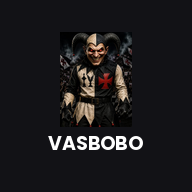
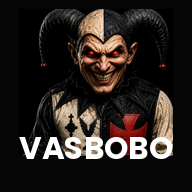
[LOCAL] Ícone com nova arte (texto maior, personagem em destaque); cabeçalho de verdade sincronizado (removido CSS morto duplicado que causava inconsistência); Jogadores só admin; bordas mais escuras; ranking da rodada com link maior pro jogo + call-to-action pra votar; corrige jogo duplicado em des

diff --git a/index.html b/index.html
@@ -169,7 +169,7 @@ console.log('Firebase conectado ao Vasbobo ✓');
   .data-grande{font-family:'Anton',sans-serif;font-size:clamp(1.05rem,3.2vw,1.5rem);letter-spacing:.04em;text-transform:uppercase;color:var(--branco);margin-top:6px}
   .cronometro{font-family:'Anton',sans-serif;font-size:clamp(1.2rem,4vw,1.8rem);letter-spacing:.06em;color:var(--ouro);margin-top:4px}
   .cronometro small{display:block;font-family:'Inter';font-size:.62rem;letter-spacing:.18em;color:var(--cinza)}
-  .rodada-box{background:rgba(255,255,255,.65);border:1px solid rgba(23,23,27,.18);border-radius:12px;padding:12px 14px}
+  .rodada-box{background:rgba(255,255,255,.65);border:1px solid rgba(23,23,27,.32);border-radius:12px;padding:12px 14px}
   .rodada-box h3{font-family:'Inter',sans-serif;font-weight:800;font-size:.78rem;letter-spacing:.1em;text-transform:uppercase;margin-bottom:8px;display:flex;justify-content:space-between;gap:8px;align-items:center;text-shadow:none}
   .rodada-box h3 span.vivo{color:var(--verde);font-size:.6rem;letter-spacing:.16em}
   .mini-linha{display:flex;justify-content:space-between;gap:8px;font-size:.82rem;padding:5px 0;border-bottom:1px solid rgba(150,148,140,.4)}
@@ -626,7 +626,7 @@ console.log('Firebase conectado ao Vasbobo ✓');
     <button class="tab oculto" id="tabPartidas" onclick="mudarAba('partidas')">✠ Jogos/Calendário CRVG</button>
     <a href="/futebol.html" class="tab" style="text-decoration:none">🎯 O Que Mais Entende</a>
     <a href="/ogrupo.html" class="tab" style="text-decoration:none">🍻 O Grupo</a>
-    <button class="tab" id="tabJogadores" onclick="mudarAba('jogadores')">🗣 Jogadores</button>
+    <button class="tab oculto" id="tabJogadores" onclick="mudarAba('jogadores')">🗣 Jogadores</button>
     <button class="tab oculto" id="tabElenco" onclick="mudarAba('elenco')">Elenco</button>
     <button class="tab oculto" id="tabAdmin" onclick="mudarAba('admin')">Configurações</button>
   </nav>
@@ -1046,8 +1046,22 @@ function mediaJogadorNoJogo(j,pid){
   return n?{media:s/n,n}:null;
 }
 /* Reizinho e Ribamar de um jogo encerrado */
+/* pontuação só "fecha" de verdade (coroa/ranking final) quando todo mundo que palpitou já votou
+   nos jogadores, ou depois de 12h do resultado — o que vier primeiro. Antes disso os pontos
+   aparecem como provisórios, porque o MVP da galera pode mudar até lá. */
+function pontuacaoLiberada(j){
+  if(!j.resultado)return false;
+  const palpitantes=Object.keys(j.palpites||{});
+  if(!palpitantes.length)return true;
+  const votantes=new Set(Object.keys(j.avaliacoes||{}).filter(u=>Object.keys(j.avaliacoes[u]||{}).length));
+  const todosVotaram=palpitantes.every(u=>votantes.has(u));
+  if(todosVotaram)return true;
+  const desde=j.resultadoEm||0;
+  return desde?(Date.now()-desde>12*3600000):true;
+}
 function premiacaoJogo(j){
   if(!j.resultado)return null;
+  if(!pontuacaoLiberada(j))return null;
   const chaveJ=fqChaveJogo(j);
   const linhas=Object.entries(j.palpites).map(([u,p])=>({
     u,
@@ -1834,7 +1848,7 @@ async function sincronizarJogos(){
       if(!x.historicoAuto)x.historicoAuto=[];
       x.historicoAuto.push(registro);
       if(r.encerrado){
-        x.resultado={v:gv,a:ga};
+        x.resultado={v:gv,a:ga};x.resultadoEm=Date.now();
         x.goleadores=mapearGoleadores(r.goleadores_vasco);
         x.fonteAuto=registro;
         x.parcial=null;
@@ -1923,6 +1937,7 @@ function entrarNoApp(){
   document.getElementById('whoAdm').classList.toggle('oculto',!adm);
   document.getElementById('tabPartidas').classList.remove('oculto');
   document.getElementById('tabElenco').classList.toggle('oculto',!adm);
+  document.getElementById('tabJogadores').classList.toggle('oculto',!adm);
   document.getElementById('tabAdmin').classList.toggle('oculto',!adm);
   aba='jogos';jogoAberto=null;
   render();
@@ -1985,6 +2000,13 @@ function render(){
 
 /* =================== DESTAQUE E LISTA =================== */
 /* destaque: jogo ao vivo > próximo jogo sem resultado > último da lista */
+function abrirJogoNaAvaliacao(id){
+  abrirJogo(id);
+  setTimeout(()=>{
+    const el=document.querySelector('.aval-bloco');
+    if(el)el.scrollIntoView({behavior:'smooth',block:'start'});
+  },150);
+}
 function jogoDestaque(){
   const lista=jogosOrdenados();
   const agora=new Date();
@@ -2049,7 +2071,14 @@ function htmlRodadaBox(){
   if(usarRodada){
     const aoVivo=statusJogo(rj)==='andamento';
     const tabela=tabelaRodada(rj);
-    let html='<div class="rodada-box" style="cursor:pointer" onclick="abrirJogo(\''+rid+'\')"><h3><span>Ranking da Rodada · '+nomeJogo(rj)+' '+(placarTexto(rj,true)||'')+'</span>'+(aoVivo?'<span class="vivo">● AO VIVO</span>':'')+'</h3><div style="text-align:right;margin:-4px 0 8px">'+tooltipPontuacao()+'</div>';
+    let html='<div class="rodada-box"><h3 style="margin-bottom:2px"><span>Ranking da Rodada</span>'+(aoVivo?'<span class="vivo">● AO VIVO</span>':'')+'</h3>'+
+      '<div onclick="abrirJogo(\''+rid+'\')" style="cursor:pointer;font-size:1.08rem;font-weight:800;color:var(--vermelho);text-decoration:underline;text-underline-offset:3px;margin-bottom:8px;display:flex;align-items:center;gap:6px;flex-wrap:wrap">'+nomeJogo(rj)+' '+(placarTexto(rj,true)||'')+' <span style="font-size:.75em">→</span></div>'+
+      '<div style="text-align:right;margin:-4px 0 8px">'+tooltipPontuacao()+'</div>';
+    if(rj.resultado&&!(rj.avaliacoes&&rj.avaliacoes[eu]&&Object.keys(rj.avaliacoes[eu]).length)){
+      html+='<button class="jogo-item" style="background:rgba(192,18,27,.1);border-color:var(--vermelho);margin-bottom:10px" onclick="abrirJogoNaAvaliacao(\''+rid+'\')">'+
+        '<span><span class="jogo-nome" style="color:var(--vermelho)">🗳 Você ainda não votou nos jogadores!</span>'+
+        '<div class="meta">Toque aqui pra avaliar e ajudar a definir o MVP da rodada</div></span></button>';
+    }
     if(!tabela.length){
       html+='<p class="nota-rodape" style="margin:0">Ninguém palpitou neste jogo. Rodada sem rei nem bobo.</p>';
     }else{
@@ -2068,6 +2097,9 @@ function htmlRodadaBox(){
           '<div class="premio-nome">'+prem.ribas.map(esc).join(' & ')+'</div>'+
           '<div class="premio-sub">'+prem.min+' pt'+(prem.min===1?'':'s')+' — errou até o hino. Agora a roleta do castigo te espera.</div>':'')+'</div>';
       }else if(tabela.length){
+        if(rj.resultado&&!pontuacaoLiberada(rj)){
+          html+='<p class="nota-rodape" style="margin-top:8px">🕐 <b>Pontuação provisória</b> — o MVP ainda pode mudar. A coroa fecha quando todo mundo que palpitou também votar nos jogadores, ou em até 12h depois do resultado.</p>';
+        }
         const lider=tabela[0], ultimo=tabela[tabela.length-1];
         const empatados=lider.pts===ultimo.pts;
         html+='<div class="chips-coroa" style="margin-top:10px"><span class="chip-coroa">'+esc(cap(lider.u))+' '+ICON_REI+'</span>'+
@@ -2138,11 +2170,13 @@ function renderListaJogos(){
       '</div>'+htmlRodadaBox()+htmlCastigoRodadaBox()+'</div></div>';
   }
 
+  const destId=dest?dest[0]:null;
   const encerradosIds=lista.filter(([i,j])=>j.resultado).map(([i])=>i);
   let arquivados=0;
   let mesAtual='';
   lista.forEach(([id,j])=>{
     if(j.resultado){arquivados++;return;}
+    if(id===destId)return;
     const mes=nomeMes(j.data);
     if(mes!==mesAtual){mesAtual=mes;html+='<div class="mes-sep">'+mes+'</div>';}
     const s=statusJogo(j);
@@ -2173,13 +2207,13 @@ function renderDetalhe(){
   const pe=casa?'Vasco':esc(j.adversario), pd=casa?esc(j.adversario):'Vasco';
   const ne=r?(casa?r.v:r.a):'–', nd=r?(casa?r.a:r.v):'–';
 
-  let html='<button class="btn fantasma" onclick="voltarLista()" style="margin-bottom:14px">← Voltar aos jogos</button>'+
+  let html='<button class="btn" onclick="voltarLista()" style="margin-bottom:14px;display:flex;align-items:center;gap:8px;width:auto">← Voltar à Tela Principal</button>'+
   '<div class="card"><div style="display:flex;justify-content:space-between;gap:10px;flex-wrap:wrap;align-items:center"><div>'+
   '<div class="meta">'+fmtData(j)+' '+badgeTransmissao(j,true)+' · '+esc(j.competicao)+(j.fase?' ('+esc(j.fase)+')':'')+' · '+(casa?'São Januário':'Fora de casa')+'</div>'+
   '<div class="placar-grande" style="margin-top:8px"><span>'+pe+'</span><span class="num">'+ne+'</span><span class="x">×</span><span class="num">'+nd+'</span><span>'+pd+'</span>'+(j.parcial&&!j.resultado?'<span class="selo s-andamento">parcial ao vivo</span>':'')+'</div></div>'+
   '<span class="selo '+cls+'">'+txt+'</span></div>';
   if(j.resultado&&(j.goleadores||[]).length)html+='<p class="nota-rodape" style="margin-top:10px">⚽ Gols do Vasco: <b>'+j.goleadores.map(g=>esc(nomeJogador(g))).join(', ')+'</b></p>';
-  if(j.fonteAuto)html+='<div class="auto-info">⚙ Resultado registrado automaticamente em '+new Date(j.fonteAuto.quando).toLocaleString('pt-BR',{day:'2-digit',month:'2-digit',hour:'2-digit',minute:'2-digit'})+' via busca na web (fonte: '+esc(j.fonteAuto.fonte)+'). O admin pode corrigir na área abaixo, se precisar.</div>';
+  if(j.fonteAuto&&souAdmin())html+='<div class="auto-info">⚙ Resultado registrado automaticamente em '+new Date(j.fonteAuto.quando).toLocaleString('pt-BR',{day:'2-digit',month:'2-digit',hour:'2-digit',minute:'2-digit'})+' via busca na web (fonte: '+esc(j.fonteAuto.fonte)+'). <span class="adm">admin</span></div>';
   if(j.emCampoInfo)html+='<div class="auto-info">📋 Lista de quem entrou em campo registrada em '+new Date(j.emCampoInfo.quando).toLocaleString('pt-BR',{day:'2-digit',month:'2-digit',hour:'2-digit',minute:'2-digit'})+' ('+esc(j.emCampoInfo.fonte)+').</div>';
   if(!j.fonteAuto&&j.parcial)html+='<div class="auto-info">⚙ Placar parcial obtido automaticamente às '+new Date(j.parcial.quando).toLocaleTimeString('pt-BR',{hour:'2-digit',minute:'2-digit'})+' (fonte: '+esc(j.parcial.fonte)+'), atualizando a cada poucos minutos.</div>';
   html+=renderMvpLinha(j);
@@ -2219,7 +2253,7 @@ function selectJogadores(idSel,valorAtual,incluirSemGol){
 function renderPalpiteCard(j,s){
   const meu=j.palpites[eu];
   const aberto=podePalpitar(j);
-  let html='<div class="card"><h2>Palpites</h2>';
+  let html='<div class="card"><h2>Palpites Vasbobo</h2>';
   if(aberto){
     html+='<div class="palpite-form"><span class="display" style="font-size:1rem">Vasco</span>'+
       '<input type="number" min="0" max="20" id="ppV" value="'+(meu?meu.v:'')+'" aria-label="Gols do Vasco">'+
@@ -2233,33 +2267,37 @@ function renderPalpiteCard(j,s){
       '<p class="nota-rodape" style="display:flex;align-items:center;gap:8px;flex-wrap:wrap">Palpites fecham '+FECHA_PALPITE_MIN+' minutos antes da bola rolar. '+tooltipPontuacao()+'</p>';
   }else if(meu){
     html+='<p style="font-size:.92rem">Seu palpite: <b class="display">Vasco '+meu.v+' × '+meu.a+' '+esc(j.adversario)+'</b>'+(meu.mvp?' · MVP: <b>'+esc(nomeJogador(meu.mvp))+'</b>':'')+(meu.gol?' · Gol de: <b>'+esc(nomeJogador(meu.gol))+'</b>':'')+'</p>';
-  }else{
-    html+='<p class="nota-rodape" style="margin-top:0">Os palpites deste jogo já fecharam ('+FECHA_PALPITE_MIN+' min antes da bola rolar) e você ficou de fora. Na próxima!</p>';
   }
 
   const nomes=Object.keys(j.palpites);
   if(nomes.length){
-    html+='<div style="margin-top:14px">'+nomes.sort().map(n=>{
-      const p=j.palpites[n];
-      const pts=pontosPalpite(p,j,true);
-      let ptsHtml='';
-      if(pts&&(j.resultado||j.parcial)){
-        const cls=pts.exato?'p5':pts.acertouResultado?'p2':'p0';
-        ptsHtml='<span class="pontos '+cls+'">'+pts.total+' pt'+(pts.total===1?'':'s')+(pts.parcial?' *':'')+'</span>';
-        const bs=descricaoPontosPalpite(pts);
-        if(bs.length)ptsHtml+=' <span class="bonus">'+bs.join(' · ')+'</span>';
-      }
-      const escondido=aberto&&n!==eu;
-      return '<div class="linha-tabela"><span class="rank-nome">'+esc(n)+(n===eu?' (você)':'')+'</span>'+
-        '<span style="font-family:\'Anton\'">'+(escondido?'🙈 palpite oculto até fechar':'Vasco '+p.v+' × '+p.a+' '+esc(j.adversario))+'</span>'+
-        '<span>'+(escondido?'':(p.mvp||p.gol?'<span class="nota-rodape" style="margin:0">MVP: '+(p.mvp?esc(nomeJogador(p.mvp)):'—')+' · Gol: '+(p.gol?esc(nomeJogador(p.gol)):'—')+'</span> ':''))+ptsHtml+'</span></div>';
-    }).join('')+'</div>';
+    html+='<button class="btn fantasma" style="width:100%;margin-top:14px" onclick="togglePalpitesTodos()">'+
+      (mostrarTodosPalpites?'▲ Esconder palpites de todos':'Ver palpites de todos ▾')+'</button>';
+    if(mostrarTodosPalpites){
+      html+='<div style="margin-top:10px">'+nomes.sort().map(n=>{
+        const p=j.palpites[n];
+        const pts=pontosPalpite(p,j,true);
+        let ptsHtml='';
+        if(pts&&(j.resultado||j.parcial)){
+          const cls=pts.exato?'p5':pts.acertouResultado?'p2':'p0';
+          ptsHtml='<span class="pontos '+cls+'">'+pts.total+' pt'+(pts.total===1?'':'s')+(pts.parcial?' *':'')+'</span>';
+          const bs=descricaoPontosPalpite(pts);
+          if(bs.length)ptsHtml+=' <span class="bonus">'+bs.join(' · ')+'</span>';
+        }
+        const escondido=aberto&&n!==eu;
+        return '<div class="linha-tabela"><span class="rank-nome">'+esc(n)+(n===eu?' (você)':'')+'</span>'+
+          '<span style="font-family:\'Anton\'">'+(escondido?'🙈 palpite oculto até fechar':'Vasco '+p.v+' × '+p.a+' '+esc(j.adversario))+'</span>'+
+          '<span>'+(escondido?'':(p.mvp||p.gol?'<span class="nota-rodape" style="margin:0">MVP: '+(p.mvp?esc(nomeJogador(p.mvp)):'—')+' · Gol: '+(p.gol?esc(nomeJogador(p.gol)):'—')+'</span> ':''))+ptsHtml+'</span></div>';
+      }).join('')+'</div>';
+    }
   }else{
     html+='<p class="nota-rodape">Ninguém palpitou ainda. Chega primeiro!</p>';
   }
   html+='</div>';
   return html;
 }
+let mostrarTodosPalpites=false;
+function togglePalpitesTodos(){ mostrarTodosPalpites=!mostrarTodosPalpites; render(); }
 
 async function enviarPalpite(){
   const v=document.getElementById('ppV').value,a=document.getElementById('ppA').value;
@@ -2450,6 +2488,9 @@ function renderAdminJogo(j,s){
   html+='<details style="margin-top:14px"><summary>Quem entrou em campo ('+marcados.length+' registrados) — libera as notas</summary>'+
     '<p class="nota-rodape">A lista é buscada automaticamente após o jogo. Use aqui para forçar ou corrigir.</p>'+
     '<div class="grid g3" style="margin-top:8px">'+chkCampo+'</div>'+
+    '<div style="display:flex;gap:8px;margin-top:12px;flex-wrap:wrap;align-items:flex-end">'+
+    '<div style="flex:1;min-width:140px"><label for="npRapidoNome">Jogador não está na lista?</label><input id="npRapidoNome" placeholder="Nome do jogador"></div>'+
+    '<button class="btn fantasma" onclick="addJogadorRapido()">+ Adicionar à lista</button></div>'+
     '<div style="display:flex;gap:10px;margin-top:12px;flex-wrap:wrap"><button class="btn claro" onclick="salvarEmCampo()">Salvar quem jogou</button>'+
     '<button class="btn fantasma" onclick="buscarEscalacaoAgora()">🔎 Buscar quem jogou na web agora</button></div></details>';
   html+='<details style="margin-top:14px"><summary>Editar data e hora do jogo</summary><div class="grid g3" style="margin-top:10px">'+
@@ -2470,10 +2511,23 @@ async function buscarAgora(){
     const registro={quando:Date.now(),v:+r.gols_vasco,a:+r.gols_adversario,fonte:r.fonte||'busca na web'};
     if(!x.historicoAuto)x.historicoAuto=[];
     x.historicoAuto.push(registro);
-    if(r.encerrado){x.resultado={v:+r.gols_vasco,a:+r.gols_adversario};x.goleadores=mapearGoleadores(r.goleadores_vasco);x.fonteAuto=registro;x.parcial=null;}
+    if(r.encerrado){x.resultado={v:+r.gols_vasco,a:+r.gols_adversario};x.resultadoEm=Date.now();x.goleadores=mapearGoleadores(r.goleadores_vasco);x.fonteAuto=registro;x.parcial=null;}
     else x.parcial={v:+r.gols_vasco,a:+r.gols_adversario,quando:Date.now(),fonte:r.fonte||'busca na web'};
   });
   avisar(r.encerrado?'Resultado final registrado!':'Placar parcial atualizado.',true);
+  render();
+}
+async function addJogadorRapido(){
+  const nome=document.getElementById('npRapidoNome').value.trim();
+  if(!nome){avisar('Digita o nome do jogador.');return;}
+  const id='p'+Date.now();
+  const jogoId=jogoAberto;
+  await mutar(()=>{
+    dados.jogadores.push({id,num:'',nome,pos:'Meio',ativo:true});
+    const j=dados.jogos[jogoId];
+    if(j){ if(!j.emCampo)j.emCampo=[]; j.emCampo.push(id); }
+  });
+  avisar(nome+' adicionado ao elenco e marcado nessa lista!',true);
   render();
 }
 async function salvarEmCampo(){
@@ -2506,14 +2560,14 @@ async function lancarResultado(){
   if(+v>0&&gols.length===0&&!(await confirmar('O Vasco marcou mas você não indicou goleadores — o bônus de gol não será dado. Continuar mesmo assim?')))return;
   if(!(await confirmar('Lançar o resultado encerra o jogo e calcula os pontos. Confirmar?')))return;
   const id=jogoAberto;
-  await mutar(()=>{const j=dados.jogos[id];if(j){j.resultado={v:+v,a:+a};j.goleadores=gols;j.parcial=null;}});
+  await mutar(()=>{const j=dados.jogos[id];if(j){j.resultado={v:+v,a:+a};j.resultadoEm=Date.now();j.goleadores=gols;j.parcial=null;}});
   avisar('Resultado lançado. Pontos calculados!',true);
   render();
 }
 async function reabrirResultado(){
   if(!(await confirmar('Remover o resultado e reabrir o jogo?')))return;
   const id=jogoAberto;
-  await mutar(()=>{const j=dados.jogos[id];if(j){j.resultado=null;j.goleadores=[];j.fonteAuto=null;}});
+  await mutar(()=>{const j=dados.jogos[id];if(j){j.resultado=null;j.resultadoEm=null;j.goleadores=[];j.fonteAuto=null;}});
   render();
 }
 async function salvarDataHora(){
@@ -2791,8 +2845,8 @@ function renderRank(){
   const ordem=Object.entries(placar).sort((a,b)=>b[1].pts-a[1].pts||b[1].exato-a[1].exato||b[1].resultado-a[1].resultado);
 
   let html='<div class="rank-grid">'+
-  '<div class="card" style="margin-bottom:0"><h2>🏆 Ranking do Vasbobo</h2>'+
-  '<p class="nota-rodape" style="margin:0 0 12px">'+tooltipPontuacao()+'</p>'+
+  '<div class="card" style="margin-bottom:0">'+
+  '<div class="rodada-box" style="margin-bottom:12px">'+tooltipPontuacao()+'</div>'+
   htmlRodadaBox()+
   '<button class="btn fantasma" style="width:100%;margin-top:12px" onclick="toggleRankingGeral()">'+
     (mostrarRankingGeral?'▲ Esconder ranking geral':'Clique e veja o ranking geral ▾')+'</button>';

diff --git a/galeria.html b/galeria.html
@@ -40,10 +40,6 @@ html{background:var(--preto);overflow-y:scroll;scrollbar-gutter:stable}
 body{min-height:100vh;color:var(--branco);font-family:'Inter',sans-serif;-webkit-font-smoothing:antialiased;padding-bottom:60px;line-height:1.5}
 body::before{content:"";position:fixed;inset:0;background:linear-gradient(135deg,#F4F2ED 0%,#EFE9E2 50%,#F4F2ED 100%);z-index:-1}
 
-header{border-bottom:3px solid var(--branco);background:rgba(250,249,246,.88);backdrop-filter:blur(10px);position:sticky;top:0;z-index:20}
-.header-inner{max-width:1100px;margin:0 auto;padding:18px 20px;display:flex;align-items:center;justify-content:space-between;gap:12px}
-.logo{font-family:'Anton',sans-serif;font-size:1.6rem;text-transform:uppercase;letter-spacing:.04em}
-.logo span{color:var(--vermelho)}
 .voltar{background:none;border:1px solid var(--linha);color:var(--cinza);border-radius:8px;padding:8px 14px;cursor:pointer;font-size:.78rem;letter-spacing:.1em;text-transform:uppercase;font-family:'Inter',sans-serif;text-decoration:none;display:inline-block}
 .voltar:hover{border-color:var(--branco);color:var(--branco)}
 

diff --git a/hoje.html b/hoje.html
@@ -64,10 +64,6 @@ html{background:var(--preto);overflow-y:scroll;scrollbar-gutter:stable}
 body{min-height:100vh;color:var(--branco);font-family:'Inter',sans-serif;-webkit-font-smoothing:antialiased;padding-bottom:60px;line-height:1.5}
 body::before{content:"";position:fixed;inset:0;background:linear-gradient(135deg,#F4F2ED 0%,#EFE9E2 50%,#F4F2ED 100%);z-index:-1}
 
-header{border-bottom:3px solid var(--branco);background:rgba(250,249,246,.88);backdrop-filter:blur(10px);position:sticky;top:0;z-index:10}
-.header-inner{max-width:820px;margin:0 auto;padding:18px 20px;display:flex;align-items:center;justify-content:space-between;gap:12px}
-.logo{font-family:'Anton',sans-serif;font-size:1.8rem;text-transform:uppercase;letter-spacing:.04em}
-.logo span{color:var(--vermelho)}
 .voltar{background:none;border:1px solid var(--linha);color:var(--cinza);border-radius:8px;padding:8px 14px;cursor:pointer;font-size:.8rem;letter-spacing:.1em;text-transform:uppercase;font-family:'Inter',sans-serif;text-decoration:none;display:inline-block}
 .voltar:hover{border-color:var(--branco);color:var(--branco)}
 

diff --git a/ogrupo.html b/ogrupo.html
@@ -45,11 +45,6 @@ body::after{content:"";position:fixed;inset:0;opacity:.05;
   background-image:repeating-linear-gradient(45deg,var(--branco) 0,var(--branco) 1px,transparent 0,transparent 50%);
   background-size:20px 20px;z-index:-1}
 
-header{border-bottom:3px solid var(--branco);background:rgba(250,249,246,.88);backdrop-filter:blur(10px);
-  position:sticky;top:0;z-index:10}
-.header-inner{max-width:1100px;margin:0 auto;padding:18px 20px;display:flex;align-items:center;justify-content:space-between;gap:12px}
-.logo{font-family:'Anton',sans-serif;font-size:1.8rem;text-transform:uppercase;letter-spacing:.04em}
-.logo span{color:var(--vermelho)}
 .voltar{background:none;border:1px solid var(--linha);color:var(--cinza);border-radius:8px;padding:8px 14px;
   cursor:pointer;font-size:.8rem;letter-spacing:.1em;text-transform:uppercase;font-family:'Inter',sans-serif;text-decoration:none;display:inline-block}
 .voltar:hover{border-color:var(--branco);color:var(--branco)}
